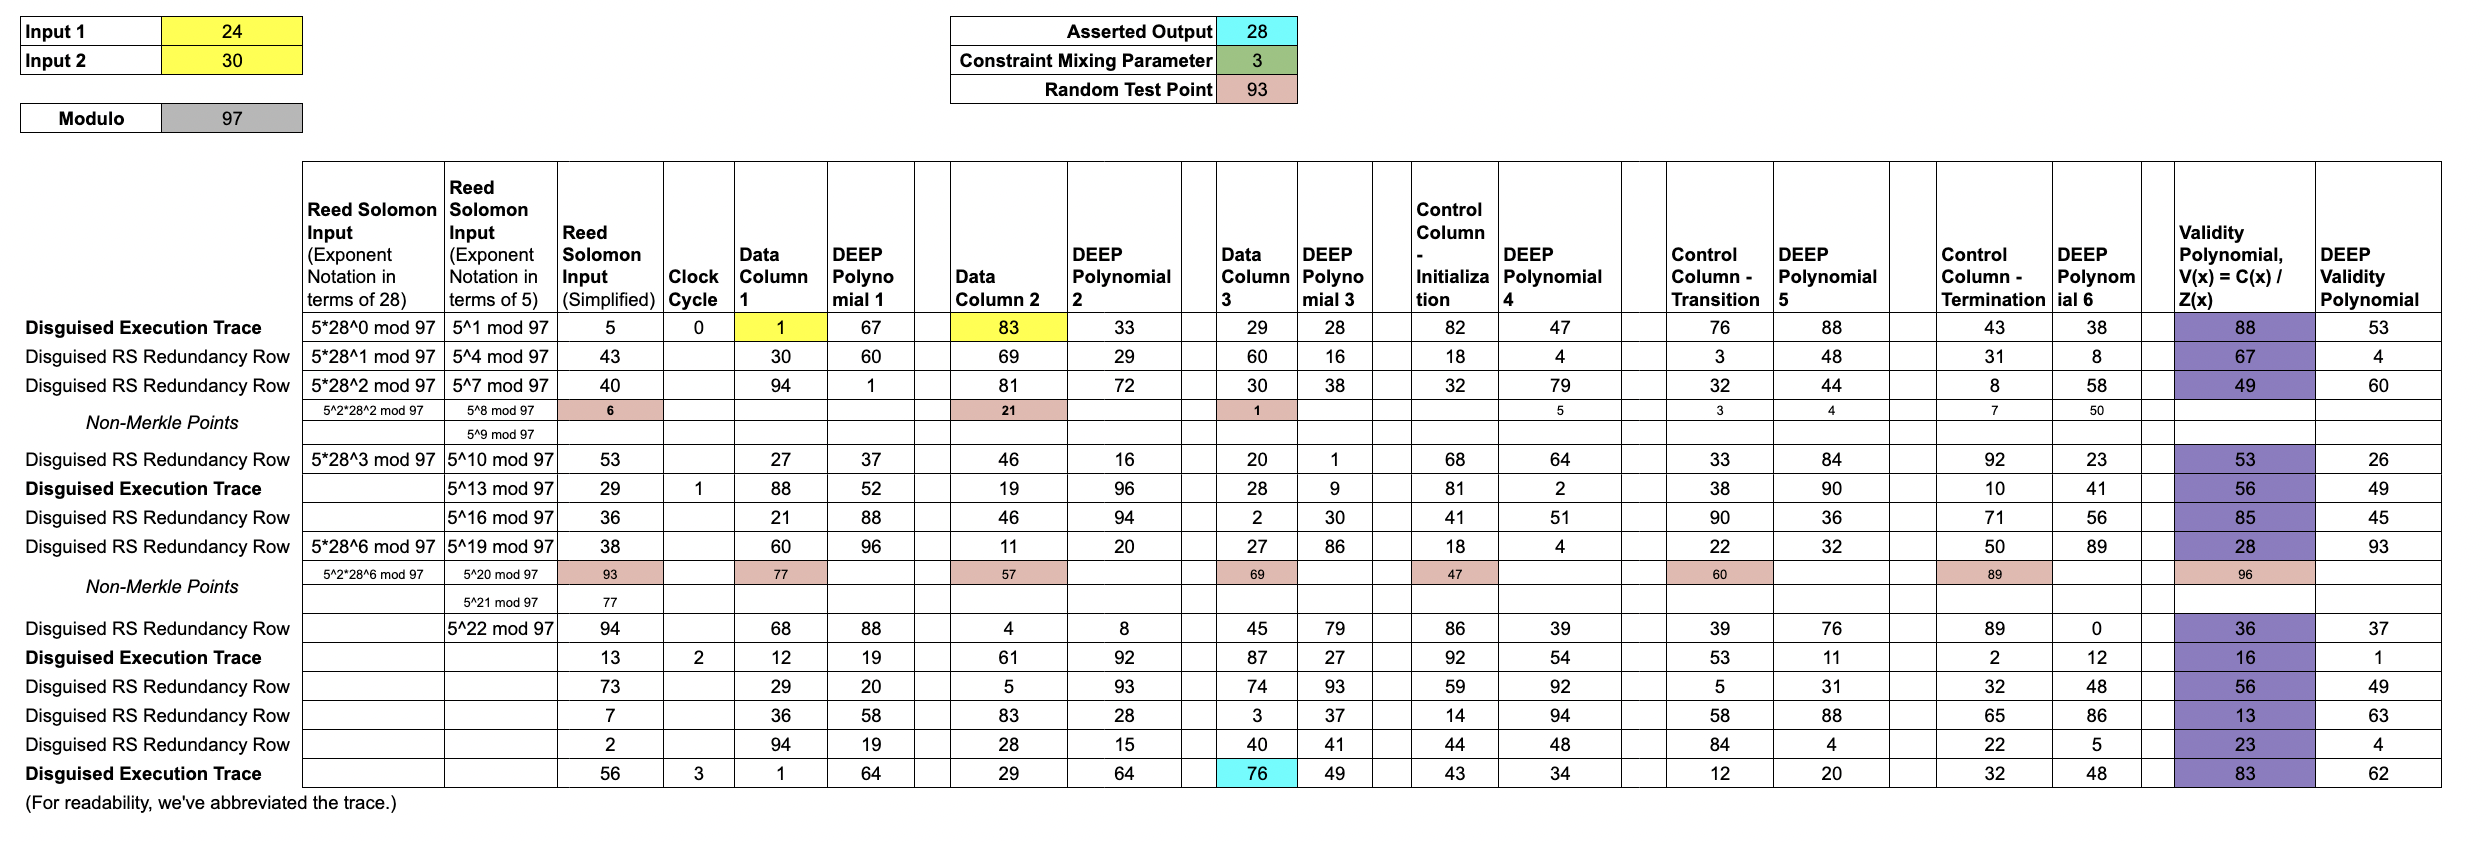
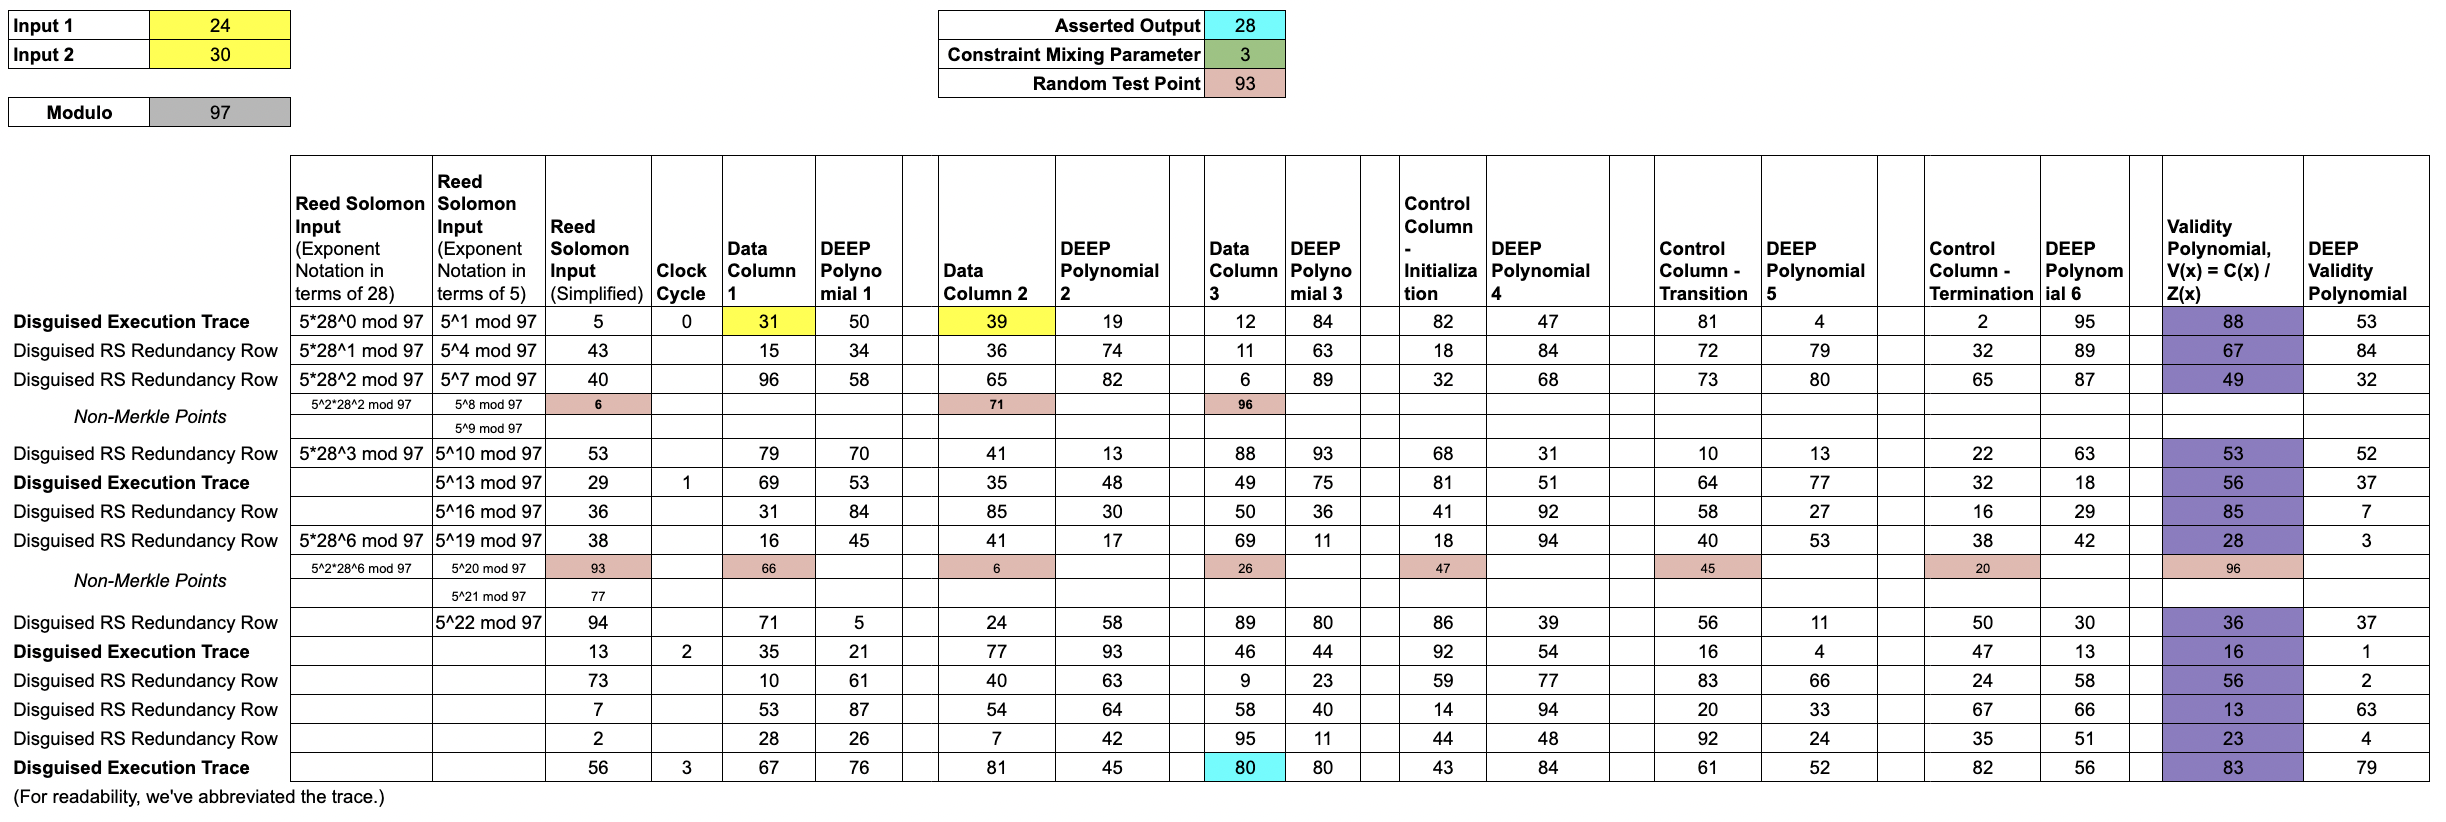
fixing error in DEEP (#43)

Changed region(s): [[0.0, 0.1825, 0.9943, 0.9732], [0.0, 0.0, 0.1243, 0.1825], [0.3729, 0.0, 0.5282, 0.1217]]

diff --git a/docs/explainers/proof-system/constructing-a-seal.md b/docs/explainers/proof-system/constructing-a-seal.md
@@ -166,11 +166,6 @@ $c'_3(x) = \frac{c_3(x) - c_3(93)}{x - 93}$
 
 $V'(x)  = \frac{V(x) - V(93)}{x - 93}$ where the Prover computes V(93) by running `iNTT(ValidityColumn)` and then evaluating the resulting `validity polynomial` at $z=93$.
 
-
-![Lesson 10: The DEEP Technique](assets/fibonacci-09b.png)
-	
-Note that the output of the iNTT contains only $8$ non-zero entries.
-
 ## Lesson 10: Mixing for FRI
 
 After using the `DEEP polynomials` to check the relation between the Trace Polynomial, the `validity polynomial`, and the `zeros polynomial` at $z=93$, the only thing left for the Prover to do is to show that the `DEEP polynomials` are low-degree. 	
@@ -182,8 +177,17 @@ Letting $c'_1, c'_2, c'_3, d'_1, d'_2, d'_3$, and $V'$ denote the `DEEP polynomi
 				
 ![Lesson 11: Mixing for FRI](assets/fibonacci-10.png)
 
-To complete the argument, the Prover constructs a FRI proof that $f_0(x)$ is a low degree polynomial.													
-With this process, the Prover has constructed a zero-knowledge argument of computational integrity that can be verified incredibly quickly. 
+To complete the argument, the Prover constructs a FRI proof that $f_0(x)$ is a low degree polynomial. With this process, the Prover has constructed a zero-knowledge argument of computational integrity. We omit the details of FRI for brevity, but we can check our work by running an iNTT on the evaluations of $f_0$: 
+
+>`iNTT([53,69,63,30,46,13,60,50,38,3,95,23,75,39,62,19,62,58,41,67,89,41,50,24,95,90,72,20,82,33,0,16],prime=97)`
+
+returns
+
+>`[19, 56, 34, 48, 43, 37, 10, 0, 0, 0, 0, 0, 0, 0, 0, 0, 0, 0, 0, 0, 0, 0, 0, 0, 0, 0, 0, 0, 0, 0, 0, 0]`
+
+Writing this array as the coefficients of a polynomial, we see that the values in the FRI polynomial column *do*, in fact, correspond to the following low-degree polynomial: 
+
+$f_0(x)=19+56x+34x^2+48x^3+43x^4+37x^5+10x^6$.
 
 Whew! Congratulations and thank you for making it this far!
 
